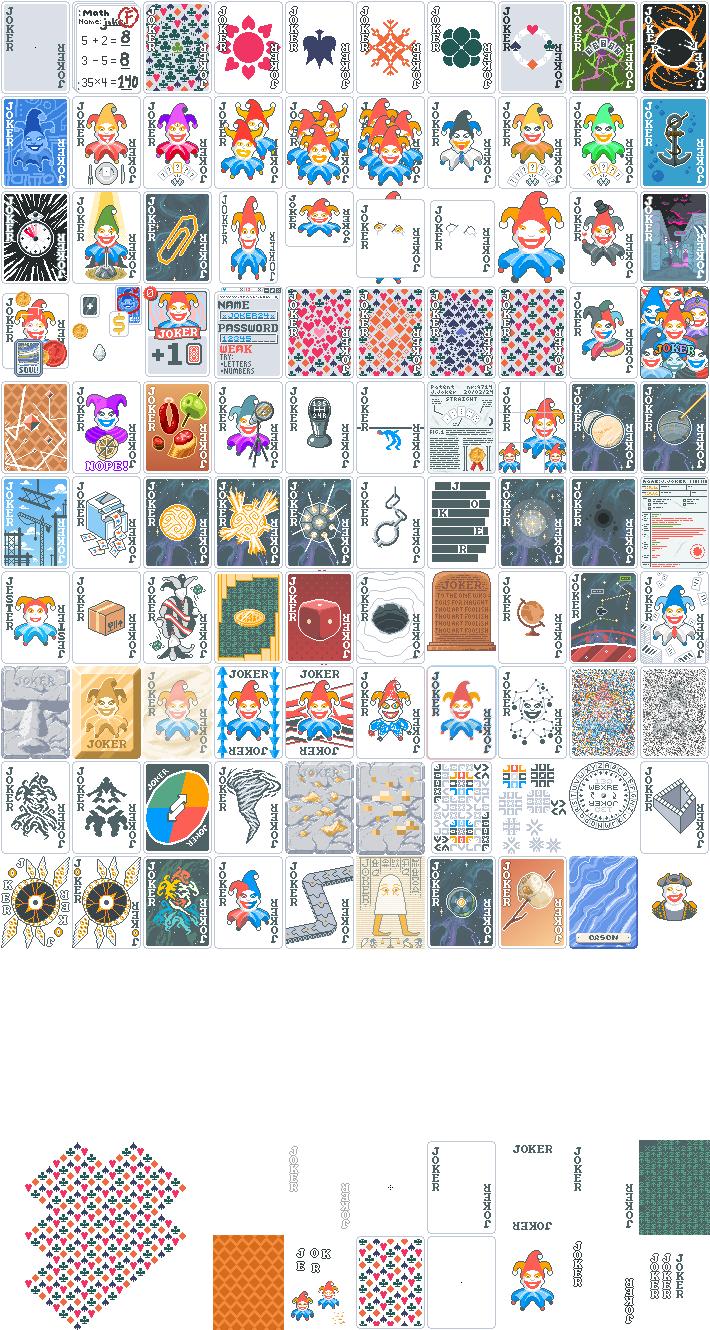
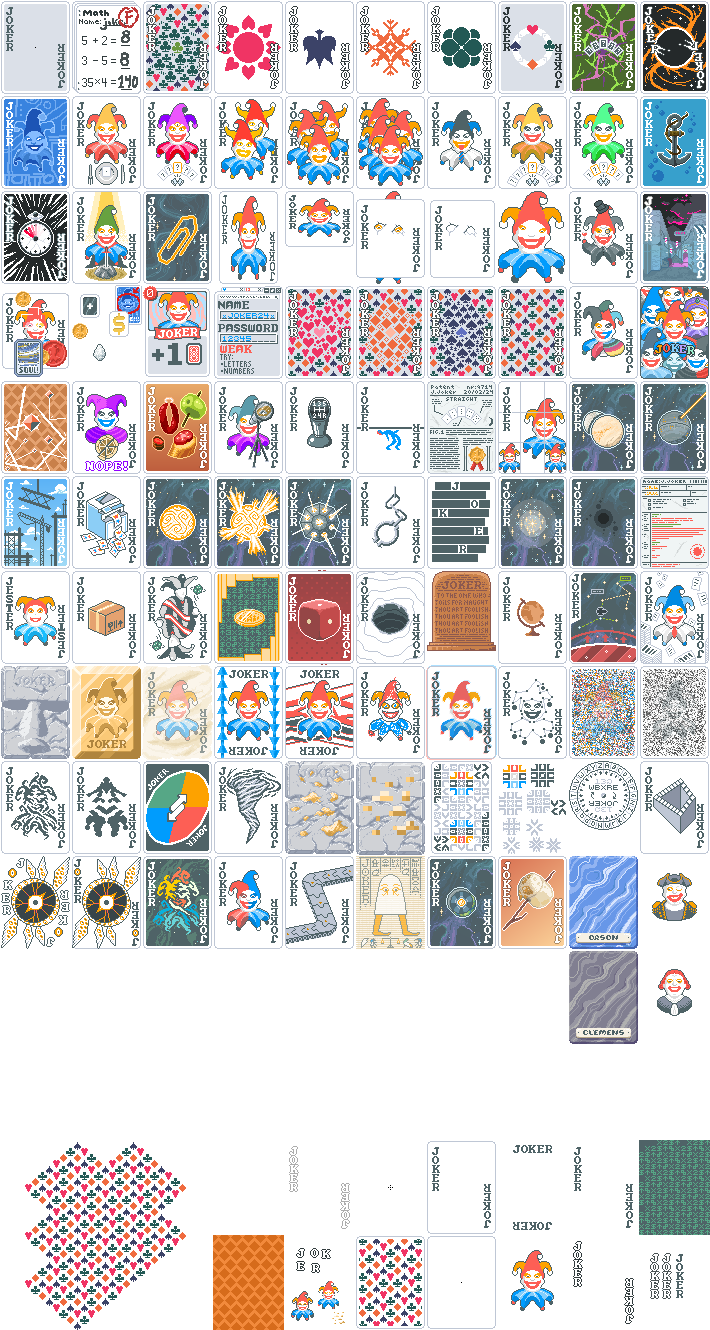
Add new Orson and move old effect to Clemens

Changed region(s): [[0.7746, 0.709, 0.8986, 0.8015], [0.9296, 0.709, 0.9915, 0.7707]]

diff --git a/web/addjokers.js b/web/addjokers.js
@@ -712,10 +712,20 @@ let jokers = [
     rarity: "Uncommon"
   },
   {
-    name: "Orson",
+    name: "Clemens",
     text: [
         "{C:red}Bans{} sold cards",
         "{C:inactive}(Banned cards can't appear)",
+    ],
+    image_url: "img/j/clemens_bg.png",
+    soul_url: "img/j/clemens_soul.png",
+    rarity: "Legendary",
+    soul: true
+  },
+  {
+    name: "Orson",
+    text: [
+        "{C:purple}Legendary{C:attention} Jokers{} can naturally appear"
     ],
     image_url: "img/j/orson_bg.png",
     soul_url: "img/j/orson_soul.png",
